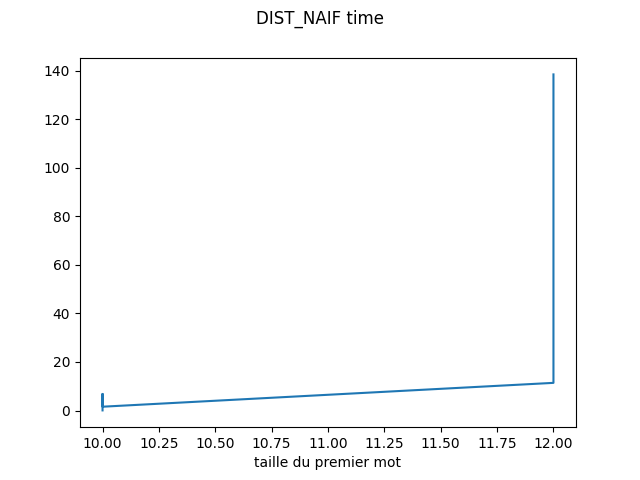
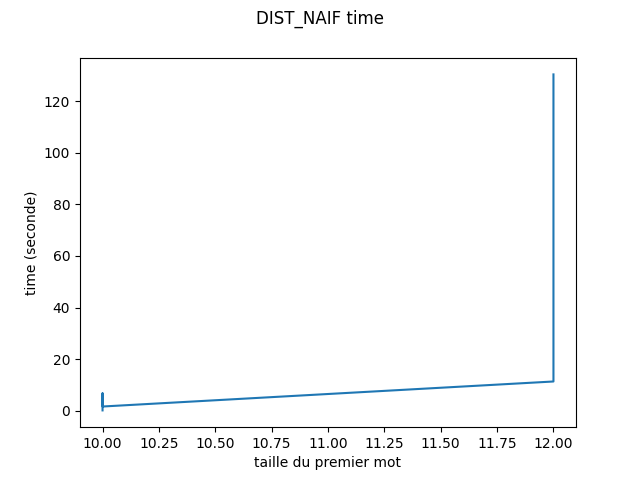
small changes

diff --git a/tools.py b/tools.py
@@ -124,9 +124,9 @@ def plot_information_from_fic(path, mode, name=""):
     plt.suptitle("".join((name, " ", name_mode)))
     plt.xlabel("taille du premier mot")
     if mode == 0:
-        plt.ylabel = "time (seconde)"
+        plt.ylabel("time (seconde)")
     else:
-        plt.ylabel = "memory (byte)"
+        plt.ylabel("memory (byte)")
     plt.show()
 
 
@@ -149,7 +149,7 @@ def plot_information_from_list(lf, mode, name=""):
     plt.suptitle("".join((name, " ", name_mode)))
     plt.xlabel("taille du premier mot")
     if mode == 0:
-        plt.ylabel = "time (seconde)"
+        plt.ylabel("time (seconde)")
     else:
-        plt.ylabel = "memory (byte)"
+        plt.ylabel("memory (byte)")
     plt.show()
